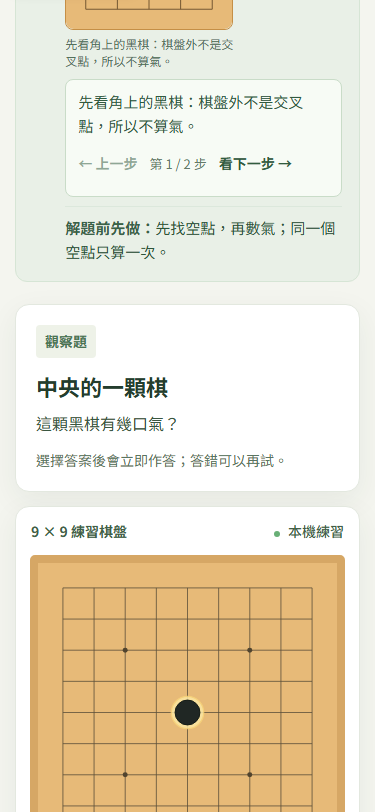
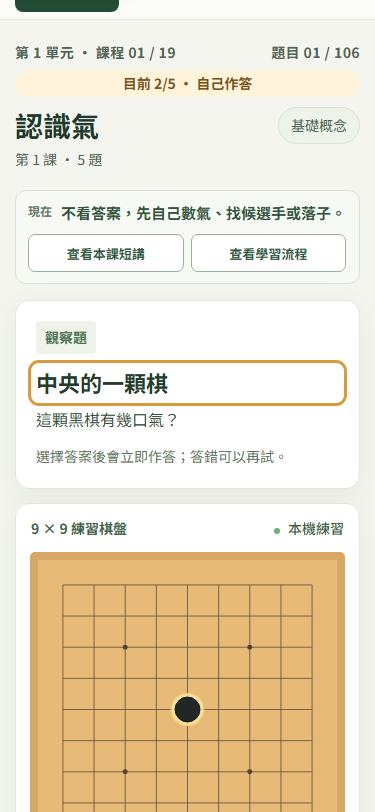
feat: condense repeated lesson guidance

diff --git a/styles.css b/styles.css
@@ -119,16 +119,16 @@ svg .board-hit{fill:transparent;cursor:pointer}svg .board-hit:hover{fill:#ffffff
   .top-actions{width:100%;justify-content:flex-start;gap:6px}.primary-top-action,.tools-menu summary,.text-button{min-height:40px;font-size:.8125rem}.tools-panel{right:auto;left:0;width:min(440px,calc(100vw - 30px));max-height:70vh;padding:15px}.tool-item{grid-template-columns:1fr;gap:5px;padding:9px 0}.tool-item button,.tool-upload{width:100%;min-height:40px}.policy-choice{padding:7px 0}
 }
 
-/* First-use flow: read the task before seeing or operating the board. */
+/* Keep repeated guidance available without occupying every question screen. */
 .skip-link{position:fixed;z-index:20;left:12px;top:-56px;padding:10px 14px;border-radius:8px;background:#fff;color:#183e29;font-weight:700;box-shadow:0 3px 14px #102b1c33}.skip-link:focus{top:12px}
-.first-start-card{display:grid;gap:9px;max-width:760px;margin:0 0 22px;padding:22px;border:1px solid #cfe0d0;border-radius:14px;background:#f2f7ef;box-shadow:0 8px 24px #233c2910}.first-start-card>span{font-size:.875rem;font-weight:700;color:#3c744b}.first-start-card h2{margin:0;color:#244c35;font-size:1.5rem}.first-start-card>p{max-width:56ch;margin:0;font-size:1rem;line-height:1.7;color:#395640}.first-start-preview{display:grid;gap:7px;max-width:62ch;padding:13px 15px;border:1px solid #c9ddcb;border-radius:10px;background:#fffdf8;color:#2c4d35}.first-start-preview>strong{font-size:.9375rem}.first-start-preview p{margin:0;font-size:.9375rem;line-height:1.62}.first-start-preview p span:first-child,.teaching-demo>span:first-child,.teaching-check>span:first-child{font-weight:700;color:#396247}.first-start-card .primary-button{justify-self:start;margin-top:4px}.course-hint{margin:0 0 10px;padding:0 5px;font-size:.8125rem;line-height:1.5;color:#d0e2d3}
+.course-hint{margin:0 0 10px;padding:0 5px;font-size:.8125rem;line-height:1.5;color:#d0e2d3}.lesson-context-bar{display:flex;align-items:center;justify-content:space-between;gap:18px;margin:0 0 20px;padding:12px 15px;border:1px solid #d6e2d4;border-radius:11px;background:#f7faf4}.lesson-context-bar p{display:flex;align-items:baseline;gap:9px;margin:0;color:#34553c;font-size:.9375rem;line-height:1.5}.lesson-context-bar p>span{font-size:.75rem;font-weight:700;color:#617967}.lesson-context-bar p>strong{font-weight:600}.lesson-context-actions{display:flex;flex:none;gap:7px}.lesson-context-actions .subtle-button{min-height:38px;padding:7px 10px;border:1px solid #9ab19c;border-radius:7px;background:#fff;color:#315a3f;font-size:.8125rem;font-weight:700}.lesson-context-actions .subtle-button:hover{background:#edf5eb;text-decoration:none}
 .practice-grid{grid-template-areas:"board question" "board answer";grid-template-columns:minmax(335px,1.2fr) minmax(330px,.9fr);align-items:start}.board-card{grid-area:board}.question-card{grid-area:question;min-height:0;margin:0;padding:25px 25px 18px}.answer-card{grid-area:answer;display:flex;min-height:252px;padding:21px 25px;background:#fff;border:1px solid #e3e8df;border-radius:14px;box-shadow:0 9px 30px #233c2910;flex-direction:column}.question-card h3{margin-top:14px}.answer-policy{margin:13px 0 0;color:#5a7460;font-size:.875rem;line-height:1.55}.practice-grid.text-practice{grid-template-areas:"question" "answer";grid-template-columns:minmax(0,760px)}.text-practice .answer-card{min-height:270px}.question-card,.answer-card{scroll-margin-top:18px}
-.text-button[hidden]{display:none}.text-button:disabled,.subtle-button:disabled{opacity:.52;cursor:not-allowed;text-decoration:none}.subtle-button:disabled:hover{text-decoration:none}.evaluation-dialog{width:min(480px,calc(100vw - 32px));padding:24px;border:1px solid #cadbc9;border-radius:14px;color:#294635;box-shadow:0 20px 48px #1935233d}.evaluation-dialog::backdrop{background:#19352366}.evaluation-dialog h2{margin:0 0 10px;font-size:1.35rem}.evaluation-dialog p,.evaluation-dialog li{font-size:1rem;line-height:1.65}.evaluation-dialog ul{padding-left:1.4em}.dialog-actions{display:flex;justify-content:flex-end;align-items:center;gap:14px;margin-top:20px}.noscript-note{margin:16px;padding:16px;border:1px solid #d39a74;border-radius:8px;background:#fff1e8;color:#743d25}
+.text-button[hidden]{display:none}.text-button:disabled,.subtle-button:disabled{opacity:.52;cursor:not-allowed;text-decoration:none}.subtle-button:disabled:hover{text-decoration:none}.evaluation-dialog{width:min(480px,calc(100vw - 32px));padding:24px;border:1px solid #cadbc9;border-radius:14px;color:#294635;box-shadow:0 20px 48px #1935233d}.evaluation-dialog::backdrop,.lesson-intro-dialog::backdrop,.learning-flow-dialog::backdrop{background:#19352380}.evaluation-dialog h2{margin:0 0 10px;font-size:1.35rem}.evaluation-dialog p,.evaluation-dialog li{font-size:1rem;line-height:1.65}.evaluation-dialog ul{padding-left:1.4em}.lesson-intro-dialog,.learning-flow-dialog{box-sizing:border-box;max-height:calc(100dvh - 32px);padding:0;overflow:auto;border:1px solid #bfd2c0;border-radius:16px;background:#fffdf8;color:#294635;box-shadow:0 24px 70px #10291b55}.lesson-intro-dialog{width:min(720px,calc(100vw - 32px))}.learning-flow-dialog{width:min(920px,calc(100vw - 32px))}.lesson-intro-shell{padding:25px}.dialog-topline{display:flex;align-items:center;justify-content:space-between;gap:16px;margin-bottom:5px}.dialog-kicker{display:block;color:#4b7756;font-size:.8125rem;font-weight:700}.dialog-close-button{min-height:36px;padding:6px 10px;border:1px solid #9ab19c;border-radius:7px;background:#fff;color:#315a3f;font:inherit;font-size:.8125rem;font-weight:700;cursor:pointer}.dialog-close-button:hover{background:#edf5eb}.lesson-intro-shell>h2{margin:0;color:#203e2b;font-size:1.65rem}.lesson-intro-shell>h2:focus{outline:3px solid #d99a3d;outline-offset:4px;border-radius:3px}.lesson-intro-first-use{max-width:62ch;margin:9px 0 16px;color:#4a6750;font-size:.9375rem;line-height:1.65}.lesson-intro-first-use[hidden]{display:none}.lesson-intro-dialog .teaching-card{margin:17px 0 0;box-shadow:none}.learning-flow-dialog .learning-flow{margin:0;padding:25px;border:0;background:#fffdf8;box-shadow:none}.dialog-actions{display:flex;justify-content:flex-end;align-items:center;gap:14px;margin-top:20px}.noscript-note{margin:16px;padding:16px;border:1px solid #d39a74;border-radius:8px;background:#fff1e8;color:#743d25}
 svg .board-point{fill:transparent}svg .board-hit:focus{fill:#ffffff55}svg .board-point:focus{stroke:#16452f;stroke-width:4;filter:drop-shadow(0 0 1px #fff);outline:none}svg .board-hit:focus-visible,svg .board-occupied:focus-visible{outline:none}svg .board-occupied{cursor:not-allowed}
 @media(max-width:1120px){.practice-grid{grid-template-areas:"question" "board" "answer";grid-template-columns:1fr}.question-card{padding:22px}.answer-card{min-height:0}.board-card{padding:14px}.board{max-width:500px}}
-@media(max-width:760px){.first-start-card{padding:18px;margin-bottom:18px}.first-start-card h2{font-size:1.3rem}.course-hint{margin-bottom:8px}.question-card{padding:20px}.answer-card{padding:19px 20px}.question-card h3{font-size:1.375rem}.answer-policy{font-size:.875rem}.dialog-actions{align-items:stretch;flex-wrap:wrap}.dialog-actions .primary-button{flex:1}.dialog-actions .subtle-button{padding:10px}.practice-grid{gap:14px}}
+@media(max-width:760px){.course-hint{margin-bottom:8px}.lesson-context-bar{display:grid;gap:10px;margin-bottom:16px;padding:11px 12px}.lesson-context-bar p{align-items:flex-start}.lesson-context-actions{display:grid;grid-template-columns:1fr 1fr}.lesson-context-actions .subtle-button{width:100%;text-align:center}.lesson-intro-shell,.learning-flow-dialog .learning-flow{padding:18px}.lesson-intro-shell>h2{font-size:1.4rem}.lesson-intro-dialog .teaching-card{padding:15px}.question-card{padding:20px}.answer-card{padding:19px 20px}.question-card h3{font-size:1.375rem}.answer-policy{font-size:.875rem}.dialog-actions{align-items:stretch;flex-wrap:wrap}.dialog-actions .primary-button{flex:1}.dialog-actions .subtle-button{padding:10px}.practice-grid{gap:14px}}
 
-.teaching-card{align-items:start}.teaching-card p{margin-bottom:0}.teaching-demo,.teaching-check{margin-top:9px!important;padding-top:9px;border-top:1px solid #dce8dc;font-size:.9375rem!important;line-height:1.6!important}
+.teaching-card{align-items:start}.teaching-card p{margin-bottom:0}.teaching-demo,.teaching-check{margin-top:9px!important;padding-top:9px;border-top:1px solid #dce8dc;font-size:.9375rem!important;line-height:1.6!important}.teaching-demo>span:first-child,.teaching-check>span:first-child{font-weight:700;color:#396247}
 .teaching-board-preview{width:168px;margin:12px 0 2px}.teaching-board-preview svg{display:block;width:168px;height:168px;border:1px solid #c58f46;border-radius:8px}.teaching-board-preview figcaption{margin-top:5px;font-size:.75rem;line-height:1.45;color:#54705c}.demo-board-background{fill:#e7ba78}.teaching-board-preview line{stroke:#725632;stroke-width:1}.demo-liberty{fill:none;stroke:#d39831;stroke-width:4}.teaching-board-preview .stone-black{fill:#202724;stroke:#0f1712;stroke-width:1.5}.teaching-board-preview .stone-white{fill:#fdfbf2;stroke:#5b6b59;stroke-width:1.5}
 .demo-emphasis{fill:none;stroke:#d39831;stroke-width:3}.demo-blocked{fill:none;stroke:#bd5341;stroke-width:4;stroke-linecap:round}.demo-stepper{margin:10px 0 0;padding:10px 12px;border:1px solid #c9dcc8;border-radius:8px;background:#f7fbf5;max-width:28rem}.demo-stepper p{margin:0!important;font-size:.9375rem!important;line-height:1.55!important;color:#315a3f!important}.demo-stepper-actions{display:flex;align-items:center;gap:12px;margin-top:5px}.demo-stepper-actions .subtle-button{font-weight:700}.demo-stepper-actions span{font-size:.8125rem;color:#647a68}
 .dialog-field{display:block;margin:16px 0 6px;font-size:.9375rem;font-weight:700;color:#315a3f}.evaluation-dialog select{width:100%;min-height:44px;border:1px solid #78927f;border-radius:8px;padding:8px 10px;background:#fffdf7;color:#24422f;font:inherit}

diff --git a/index.html b/index.html
@@ -98,57 +98,13 @@
       </header>
 
       <div class="content-wrap">
-        <section class="first-start-card" id="first-start-card" aria-labelledby="first-start-title">
-          <span>第一次使用</span>
-          <h2 id="first-start-title">先完成第一題</h2>
-          <p>先讀完這一小段，再用第一題確認是否看懂。答錯後會進入修正；後續再用新棋形與 9 路局面確認是否用得出來。紀錄只存於這台電腦。</p>
-          <div class="first-start-preview" aria-labelledby="first-start-lesson-title">
-            <strong id="first-start-lesson-title">現在先學：認識氣</strong>
-            <p id="first-start-concept"></p>
-            <p><span>示範：</span><span id="first-start-demo"></span></p>
-            <figure class="teaching-board-preview" id="first-start-demo-board"></figure>
-            <p><span>解題前先做：</span><span id="first-start-check"></span></p>
-          </div>
-          <button class="primary-button" id="first-start-button" type="button">看完示範，開始第 1 題 <span aria-hidden="true">→</span></button>
-        </section>
-        <section class="learning-flow" aria-labelledby="learning-flow-title">
-          <div class="learning-flow-head">
-            <div><span>學習流水線</span><h2 id="learning-flow-title">從看懂，到在棋局裡用得出來</h2></div>
-            <p>一次答對只算完成當下題目。</p>
-          </div>
-          <ol class="learning-steps">
-            <li id="learning-step-0"><span>1</span><strong>先看懂</strong><small>短講與示範</small></li>
-            <li id="learning-step-1"><span>2</span><strong>自己作答</strong><small>不看答案先算</small></li>
-            <li id="learning-step-2"><span>3</span><strong>修正重算</strong><small>理解理由再做</small></li>
-            <li id="learning-step-3"><span>4</span><strong>延後新題</strong><small>隔日換形再測</small></li>
-            <li id="learning-step-4"><span>5</span><strong>局面應用</strong><small>9 路自行發現</small></li>
-          </ol>
-          <div class="learning-guidance" role="status" aria-live="polite">
-            <p><strong>現在：</strong><span id="learning-now">先看短講，理解本題只需要的一個概念。</span></p>
-            <p><strong>為什麼現在做：</strong><span id="learning-why">完成短講後，先在有明確焦點的題目自行判斷。</span></p>
-            <p><strong>下一步：</strong><span id="learning-next">不看答案，自己回答第一題。</span></p>
-          </div>
-          <p class="learning-proof">逐步學會的證據順序：當下能做 → 隔一段時間換新棋形仍能做 → 在 9 路局面能自己發現。缺少哪一段，就標示待驗證。</p>
-        </section>
         <div class="section-head"><span id="lesson-kicker">LESSON 01 / 19</span><span class="current-stage-badge" id="learning-stage-badge">目前 1/5 · 先看懂</span><span id="question-number">題目 01 / 98</span></div>
         <div class="title-row"><div><h2 id="lesson-title" tabindex="-1">認識氣</h2><p id="lesson-subtitle"></p></div><span class="lesson-badge" id="lesson-badge">基礎概念</span></div>
-
-        <section class="teaching-card" aria-labelledby="teaching-title">
-          <span class="teaching-icon" aria-hidden="true">✦</span>
-          <div>
-            <strong id="teaching-title">先懂這一點</strong>
-            <p id="teaching-text"></p>
-            <p class="teaching-demo"><span>示範：</span><span id="teaching-demo"></span></p>
-            <figure class="teaching-board-preview" id="teaching-demo-board"></figure>
-            <section class="demo-stepper" id="teaching-demo-stepper" aria-label="逐步棋形示範" hidden>
-              <p id="teaching-demo-caption" role="status" aria-live="polite"></p>
-              <div class="demo-stepper-actions">
-                <button class="subtle-button" id="teaching-demo-previous" type="button">← 上一步</button>
-                <span id="teaching-demo-count" aria-live="polite"></span>
-                <button class="subtle-button" id="teaching-demo-next" type="button">看下一步 →</button>
-              </div>
-            </section>
-            <p class="teaching-check"><span>解題前先做：</span><span id="teaching-check"></span></p>
+        <section class="lesson-context-bar" aria-label="目前學習提示">
+          <p><span>現在</span><strong id="learning-now-summary">先看本課短講，再開始作答。</strong></p>
+          <div class="lesson-context-actions">
+            <button class="subtle-button" id="lesson-intro-button" type="button">查看本課短講</button>
+            <button class="subtle-button" id="learning-flow-button" type="button">查看學習流程</button>
           </div>
         </section>
 
@@ -210,6 +166,56 @@
       </div>
     </main>
   </div>
+  <dialog class="lesson-intro-dialog" id="lesson-intro-dialog" aria-labelledby="lesson-intro-title">
+    <div class="lesson-intro-shell">
+      <div class="dialog-topline"><span class="dialog-kicker" id="lesson-intro-kicker">本課短講 · 每課只自動顯示一次</span><button class="dialog-close-button" id="lesson-intro-dismiss-button" type="button">關閉</button></div>
+      <h2 id="lesson-intro-title" tabindex="-1">現在先學：認識氣</h2>
+      <p class="lesson-intro-first-use" id="lesson-intro-first-use">先看一個概念與示範，再自己完成題目；答錯後會進入修正，日後再用新棋形確認。紀錄只存於這台電腦。</p>
+      <section class="teaching-card" aria-labelledby="teaching-title">
+        <span class="teaching-icon" aria-hidden="true">✦</span>
+        <div>
+          <strong id="teaching-title">先懂這一點</strong>
+          <p id="teaching-text"></p>
+          <p class="teaching-demo"><span>示範：</span><span id="teaching-demo"></span></p>
+          <figure class="teaching-board-preview" id="teaching-demo-board"></figure>
+          <section class="demo-stepper" id="teaching-demo-stepper" aria-label="逐步棋形示範" hidden>
+            <p id="teaching-demo-caption" role="status" aria-live="polite"></p>
+            <div class="demo-stepper-actions">
+              <button class="subtle-button" id="teaching-demo-previous" type="button">← 上一步</button>
+              <span id="teaching-demo-count" aria-live="polite"></span>
+              <button class="subtle-button" id="teaching-demo-next" type="button">看下一步 →</button>
+            </div>
+          </section>
+          <p class="teaching-check"><span>解題前先做：</span><span id="teaching-check"></span></p>
+        </div>
+      </section>
+      <div class="dialog-actions">
+        <button class="primary-button" id="lesson-intro-start-button" type="button">看完，開始作答 <span aria-hidden="true">→</span></button>
+      </div>
+    </div>
+  </dialog>
+  <dialog class="learning-flow-dialog" id="learning-flow-dialog" aria-labelledby="learning-flow-title">
+    <section class="learning-flow">
+      <div class="learning-flow-head">
+        <div><span>學習流程</span><h2 id="learning-flow-title">從看懂，到在棋局裡用得出來</h2></div>
+        <p>一次答對只算完成當下題目。</p>
+      </div>
+      <ol class="learning-steps">
+        <li id="learning-step-0"><span>1</span><strong>先看懂</strong><small>短講與示範</small></li>
+        <li id="learning-step-1"><span>2</span><strong>自己作答</strong><small>不看答案先算</small></li>
+        <li id="learning-step-2"><span>3</span><strong>修正重算</strong><small>理解理由再做</small></li>
+        <li id="learning-step-3"><span>4</span><strong>延後新題</strong><small>隔日換形再測</small></li>
+        <li id="learning-step-4"><span>5</span><strong>局面應用</strong><small>9 路自行發現</small></li>
+      </ol>
+      <div class="learning-guidance" role="status" aria-live="polite">
+        <p><strong>現在：</strong><span id="learning-now">先看短講，理解本題只需要的一個概念。</span></p>
+        <p><strong>為什麼現在做：</strong><span id="learning-why">完成短講後，先在有明確焦點的題目自行判斷。</span></p>
+        <p><strong>下一步：</strong><span id="learning-next">不看答案，自己回答第一題。</span></p>
+      </div>
+      <p class="learning-proof">逐步學會的證據順序：當下能做 → 隔一段時間換新棋形仍能做 → 在 9 路局面能自己發現。缺少哪一段，就標示待驗證。</p>
+      <div class="dialog-actions"><button class="primary-button" id="learning-flow-close-button" type="button">回到題目</button></div>
+    </section>
+  </dialog>
   <dialog class="evaluation-dialog" id="evaluation-dialog" aria-labelledby="evaluation-dialog-title">
     <h2 id="evaluation-dialog-title">開始七天流程試行？</h2>
     <p>這一批有 4 題，請預留幾分鐘完整作答。</p>

diff --git a/app.js b/app.js
@@ -12,7 +12,7 @@
   const storageRecoveryKey = "go-learning-prototype-recovery-v1";
   const legacyStorageKeys = ["go-learning-prototype-v6", "go-learning-prototype-v5", "go-learning-prototype-v4", "go-learning-prototype-v3", "go-learning-prototype-v2", "go-learning-prototype-v1"];
   const eventPolicyVersion = "trial-events-v4";
-  const uiVersion = "learner-flow-v27";
+  const uiVersion = "learner-flow-v28";
   const contentCatalogVersion = 3;
   let pendingSgf = null;
   let storageReadIssue = null;
@@ -27,6 +27,7 @@
       : lessons[Number.isInteger(saved.index) && problems[saved.index] ? problems[saved.index].lesson : 0].unit,
     hasStarted: savedHasStarted,
     lessonIntroPending: typeof saved.lessonIntroPending === "boolean" ? saved.lessonIntroPending : !savedHasStarted,
+    seenLessonIntros: new Set((Array.isArray(saved.seenLessonIntros) ? saved.seenLessonIntros : []).filter((lessonIndex) => Number.isInteger(lessonIndex) && lessons[lessonIndex])),
     reviewMode: false,
     reviewQueue: [],
     solved: false,
@@ -86,7 +87,7 @@
   function savedShapeIsSafe(value) {
     if (value === null) return true;
     if (!asRecord(value)) return false;
-    for (const key of ["completed", "missed", "events", "applicationResults", "applicationEvents", "localExercises"]) {
+    for (const key of ["completed", "missed", "events", "applicationResults", "applicationEvents", "localExercises", "seenLessonIntros"]) {
       if (value[key] !== undefined && !Array.isArray(value[key])) return false;
     }
     for (const key of ["attempts", "exposures"]) {
@@ -152,6 +153,7 @@
         navUnitIndex: state.navUnitIndex,
         hasStarted: state.hasStarted,
         lessonIntroPending: state.lessonIntroPending,
+        seenLessonIntros: [...state.seenLessonIntros],
         completed: [...state.completed],
         missed: [...state.missed],
         attempts: state.attempts,
@@ -370,7 +372,7 @@
     state.scheduledProblem = null;
     state.externalMode = null;
     state.index = index;
-    state.lessonIntroPending = Boolean(showLessonIntro);
+    state.lessonIntroPending = Boolean(showLessonIntro && !state.seenLessonIntros.has(problems[index].lesson));
     if (updateNavUnit) state.navUnitIndex = lessons[problems[index].lesson].unit;
     state.solved = false;
     state.wrongThisTurn = 0;
@@ -421,8 +423,39 @@
     if (title && typeof title.focus === "function") title.focus({ preventScroll: true });
   }
 
-  function revealLessonStart() { revealElement("lesson-title"); }
+  function revealLessonStart() { revealElement($("lesson-intro-dialog").open ? "lesson-intro-title" : "lesson-title"); }
   function revealQuestionStart() { revealElement("question-title"); }
+
+  function markCurrentLessonIntroSeen() {
+    const lessonIndex = current().lesson;
+    if (Number.isInteger(lessonIndex)) state.seenLessonIntros.add(lessonIndex);
+    state.lessonIntroPending = false;
+  }
+
+  function showLessonIntroDialog() {
+    const dialog = $("lesson-intro-dialog");
+    if (!dialog || dialog.open) return;
+    if (typeof dialog.showModal === "function") dialog.showModal();
+    else dialog.setAttribute("open", "");
+    revealElement("lesson-intro-title");
+  }
+
+  function syncLessonIntroDialog() {
+    if (state.lessonIntroPending && !state.externalMode && !state.reviewMode) showLessonIntroDialog();
+  }
+
+  function dismissLessonIntro() {
+    if (!state.externalMode) {
+      state.hasStarted = true;
+      markCurrentLessonIntroSeen();
+      save();
+      renderLearningFlow();
+      renderProgress();
+    }
+    const dialog = $("lesson-intro-dialog");
+    if (dialog && dialog.open) dialog.close();
+    revealQuestionStart();
+  }
 
   function closeTools() {
     const tools = $("tools-menu");
@@ -723,6 +756,7 @@
       step.setAttribute("aria-current", index === activeStep ? "step" : "false");
     }
     $("learning-now").textContent = now;
+    $("learning-now-summary").textContent = now;
     $("learning-why").textContent = why;
     $("learning-next").textContent = next;
     $("learning-stage-badge").textContent = `目前 ${activeStep + 1}/5 · ${["先看懂", "自己作答", "修正重算", "延後新題", "局面應用"][activeStep]}`;
@@ -821,9 +855,6 @@
 
   function renderDemoBoards(lesson) {
     const markup = demoBoardMarkup(lesson.demoBoard);
-    const firstStart = $("first-start-demo-board");
-    firstStart.hidden = !markup;
-    firstStart.innerHTML = markup;
     if (demoLessonTitle !== lesson.title) {
       demoLessonTitle = lesson.title;
       demoStepIndex = 0;
@@ -909,12 +940,13 @@
     $("lesson-subtitle").textContent = lesson.subtitle;
     $("lesson-badge").textContent = lesson.badge || "概念練習";
     $("teaching-text").textContent = lesson.text;
-    $("teaching-demo").textContent = lesson.demo || "先依題目找出本課要觀察的棋形，再作答。";
+    $("teaching-demo").textContent = (lesson.demo || "先依題目找出本課要觀察的棋形，再作答。").replace(/^示範：\s*/, "");
     $("teaching-check").textContent = lesson.takeaway;
-    $("first-start-lesson-title").textContent = `現在先學：${lesson.title}`;
-    $("first-start-concept").textContent = lesson.text;
-    $("first-start-demo").textContent = lesson.demo || "先依題目找出本課要觀察的棋形，再作答。";
-    $("first-start-check").textContent = lesson.takeaway;
+    $("lesson-intro-title").textContent = `現在先學：${lesson.title}`;
+    $("lesson-intro-kicker").textContent = state.hasStarted ? "本課短講 · 每課只自動顯示一次" : "第一次使用 · 看完即可開始";
+    $("lesson-intro-first-use").hidden = state.hasStarted;
+    $("lesson-intro-start-button").innerHTML = `${state.hasStarted ? "開始本課練習" : "看完，開始第 1 題"} <span aria-hidden="true">→</span>`;
+    $("lesson-intro-button").textContent = state.externalMode ? "查看本題說明" : "查看本課短講";
     renderDemoBoards(lesson);
     const skill = currentSkill();
     $("question-tag").textContent = state.externalMode === "application" ? "固定應用探測" : state.externalMode === "evaluation" ? "無提示個人試行" : state.externalMode === "local_sgf" ? "棋譜局部複習" : skill ? `練習技能 · ${skill.name}` : (problem.type === "move" ? "落子題" : "觀察題");
@@ -946,8 +978,8 @@
     renderSgfReview();
     renderLearningFlow();
     renderProgress();
-    $("first-start-card").hidden = state.hasStarted || Boolean(state.externalMode) || state.index !== 0;
     showStorageWarning();
+    syncLessonIntroDialog();
   }
 
   function renderProgress() {
@@ -990,7 +1022,7 @@
     const problem = current();
     if (!state.externalMode) {
       state.hasStarted = true;
-      state.lessonIntroPending = false;
+      markCurrentLessonIntroSeen();
     }
     const isFirstAnswer = state.answersThisTurn === 0;
     state.answersThisTurn += 1;
@@ -1268,7 +1300,7 @@
     $("feedback").className = "feedback";
     $("feedback").textContent = current().hint;
     state.hintShown = true;
-    state.lessonIntroPending = false;
+    markCurrentLessonIntroSeen();
     recordEvent("hint", {
       firstAnswerPending: state.answersThisTurn === 0,
       firstExposure: state.activePresentation ? state.activePresentation.firstExposure : false,
@@ -1289,18 +1321,24 @@
     closeTools();
     if (state.externalMode) startProblem(state.index, "return_to_course");
     state.hasStarted = true;
-    state.lessonIntroPending = false;
+    markCurrentLessonIntroSeen();
     save();
     render();
     revealQuestionStart();
   });
-  $("first-start-button").addEventListener("click", () => {
-    state.hasStarted = true;
-    state.lessonIntroPending = false;
-    save();
-    render();
-    revealQuestionStart();
+  $("lesson-intro-button").addEventListener("click", showLessonIntroDialog);
+  $("lesson-intro-dismiss-button").addEventListener("click", dismissLessonIntro);
+  $("lesson-intro-start-button").addEventListener("click", dismissLessonIntro);
+  $("lesson-intro-dialog").addEventListener("cancel", (event) => {
+    event.preventDefault();
+    dismissLessonIntro();
   });
+  $("learning-flow-button").addEventListener("click", () => {
+    const dialog = $("learning-flow-dialog");
+    if (dialog && typeof dialog.showModal === "function") dialog.showModal();
+    else if (dialog) dialog.setAttribute("open", "");
+  });
+  $("learning-flow-close-button").addEventListener("click", () => $("learning-flow-dialog").close());
   $("unit-select").addEventListener("change", (event) => selectUnit(Number(event.target.value)));
   $("previous-unit-button").addEventListener("click", () => selectUnit(Math.max(0, state.navUnitIndex - 1)));
   $("next-unit-button").addEventListener("click", () => selectUnit(Math.min(units.length - 1, state.navUnitIndex + 1)));

diff --git a/README.md b/README.md
@@ -6,7 +6,7 @@
 
 目前是可運作的個人離線學習原型，尚不是可判定學習成效的正式驗收系統。2026-09-21 已將七天批次升為 `personal-pilot-v3`：八題皆來自使用者舊 R1 自我審查中已看過的 22 題，只檢查操作、七天返回、資料完整性與負擔，`formalEligible=false`。一般原始匯出仍遮蔽公開保留組的答案，但完整題庫與答案已隨 GitHub 原始碼公開；48 題均標記為 `public_source`、`formalHoldoutEligible=false`，整個舊 formal holdout pool 已退役。正式評量若要重啟，必須建立從未公開的新題庫與角色分離流程。現況以[完成矩陣](COMPLETION_MATRIX.md)為準；正式教學停止線見[正式教學閘門](TEACHING_GATE.md)，發布邊界見[公開發布架構](PUBLICATION_ARCHITECTURE.md)。
 
-同日完成導覽、工具說明、首次使用、棋盤鍵盤操作與學習者流水線：側欄區分初級 1–5、中級 6–10、高級 11–15；題目前固定顯示「先看懂 → 自己作答 → 修正重算 → 延後新題 → 局面應用」，並依新題、錯答、完成、間隔練習及局面小測驗更新現在、為什麼現在做與下一步。完成一課或一個單元後，下一步按鈕會明示「進入下一課短講」或「進入第 N 單元短講」，並自動把焦點與畫面帶到新課標題、短講及棋盤示範；同一課內才直接前往下一題。短講待看狀態會保存在本機，重新載入仍維持正確位置。第一次使用與每課短講都顯示概念、示範及解題前檢查點；19 課現都有至少兩步、可用「上一步／看下一步」播放的棋盤示範，第 4 單元的直三示範含三步做活／破眼短讀。第 9–19 課以 5×5 縮圖表達局部比較或階段順序，文字明示它們不是唯一全局答案。10 個後續單元另以 9×9 棋盤提供局部觀察點選題，題幹與解說都明示只判定指定局部，避免把教學要點誤當成全局唯一最佳手。匯入單一主線的 9 路 SGF 後可選任意可落子的原局著手重建局部，並保存候選手、預期應手、理由及人工確認紀錄；兩種匯出都帶有重建該手所需的原局面與來源指紋，局部復盤也可另匯出 SGF 交給 KaTrain。課程改為先選單元、再明確點選課程；棋盤每次只有一個 Tab 停駐點，可用方向鍵移動並以 Enter／Space 落子。側欄另顯示可觀察錯誤、SCD 階段、再犯間隔及資料不足原因；同一診斷寫入兩種匯出。有題目真正到期時，首頁才顯示「今日到期」直接入口。R1a 審查頁已從學習者工具選單移除，只供不同於學習者的外部審查者使用。此介面版號為 `learner-flow-v27`。設計判斷與未解事項見 [前端操作與視覺稽核](UI_UX_AUDIT.md)。
+同日完成導覽、工具說明、首次使用、棋盤鍵盤操作與學習者流水線：側欄區分初級 1–5、中級 6–10、高級 11–15。為避免每題重複佔用版面，主畫面只保留目前行動與兩個入口；完整「先看懂 → 自己作答 → 修正重算 → 延後新題 → 局面應用」流程改由視窗按需查看，每課短講與棋盤示範只在第一次進入該課時自動顯示，關閉後仍可隨時重開。看過狀態與待看狀態都保存在本機，重新載入不會重複打擾或遺失未看短講。完成一課或一個單元後，下一步按鈕仍會明示「進入下一課短講」或「進入第 N 單元短講」；同一課內直接前往下一題。19 課現都有至少兩步、可用「上一步／看下一步」播放的棋盤示範，第 4 單元的直三示範含三步做活／破眼短讀。第 9–19 課以 5×5 縮圖表達局部比較或階段順序，文字明示它們不是唯一全局答案。10 個後續單元另以 9×9 棋盤提供局部觀察點選題，題幹與解說都明示只判定指定局部，避免把教學要點誤當成全局唯一最佳手。匯入單一主線的 9 路 SGF 後可選任意可落子的原局著手重建局部，並保存候選手、預期應手、理由及人工確認紀錄；兩種匯出都帶有重建該手所需的原局面與來源指紋，局部復盤也可另匯出 SGF 交給 KaTrain。課程改為先選單元、再明確點選課程；棋盤每次只有一個 Tab 停駐點，可用方向鍵移動並以 Enter／Space 落子。側欄另顯示可觀察錯誤、SCD 階段、再犯間隔及資料不足原因；同一診斷寫入兩種匯出。有題目真正到期時，首頁才顯示「今日到期」直接入口。R1a 審查頁已從學習者工具選單移除，只供不同於學習者的外部審查者使用。此介面版號為 `learner-flow-v28`。設計判斷與未解事項見 [前端操作與視覺稽核](UI_UX_AUDIT.md)。
 
 這是單人、離線使用的圍棋學習程式，現有初級、中級、高級各五個單元，共 15 單元、19 課、106 題，另有 148 題／43 個母題家族的 Phase 2 變形庫。直接以瀏覽器開啟 `index.html`，不需伺服器。課程包含 28 題棋盤落子、10 題局部棋形點選與 68 題文字選擇；後續單元的點選題只判定題幹指定的局部觀察點，不宣稱為全局最佳手。固定應用探測、9 路 SGF 任意手數局部重建、排程及匯出均可操作；進度以第 7 版 schema 儲存在瀏覽器 `localStorage`。新增的 48 題涵蓋直三做活／破眼及第二眼缺口的補／破，並含非 holdout T2 流程題；錯誤分類只描述可觀察的技能任務結果，不推定心理根因。目前的「七天流程試行」使用已知曝光題，不能當成正式未見、保留、遷移或學習成效證據。
 

diff --git a/UI_UX_AUDIT.md b/UI_UX_AUDIT.md
@@ -4,7 +4,7 @@
 範圍：`index.html`、`styles.css`、`app.js` 的學習頁，以及 `r1-review.html` 的獨立審題頁。  
 定位：此文件是個人離線版的設計稽核與下一輪修改規格；它不是使用者研究或無障礙合規宣告。
 
-> 當前補遺：跨課銜接修正後，介面版本為 `learner-flow-v27`、儲存 schema 為 7、內容目錄版本為 3。完成同課題目時直接前往下一題；跨課或跨單元時，按鈕明示將進入短講，並自動聚焦新課標題、短講及棋盤示範，流水線回到「先看懂」。短講待看狀態會跨重新載入保存。19 課現在都有至少兩步棋盤示範；第 9–19 課的 5×5 縮圖明示為局部比較或階段示意，不冒充唯一全局答案。10 個後續單元另有 9×9 的局部觀察點選；它只判定題幹指定要點，不能用來判定全局最佳手。首頁只在有題目真正到期時顯示「今日到期」與數量；R1a 已從學習者工具選單移除，審查頁明示只供不同於學習者的外部審查者使用。七天批次為 `personal-pilot-v3`，八題全來自舊 R1 自我審查中已曝光的 22 題，只檢查操作、返回、資料與負擔。審查母體仍為 77 題；R1b 難度可比性維持未知。下段 `learner-flow-v20`／`v23`／`v24`／`v25`／`v26` 為歷史快照，與本補遺衝突時以本補遺及 `COMPLETION_MATRIX.md` 為準。
+> 當前補遺：介面版本為 `learner-flow-v28`、儲存 schema 為 7、內容目錄版本為 3。重複出現的首次使用卡、完整五階段流水線與每題短講已改成漸進揭露：主畫面只保留目前行動及「查看本課短講／查看學習流程」入口；每課短講只在第一次進入時自動開啟，看過的課直接進題，仍可手動重開。`seenLessonIntros` 與待看狀態會跨重新載入保存。完成同課題目時直接前往下一題；跨課或跨單元時，按鈕明示將進入短講，未看過的新課會自動聚焦短講視窗。19 課現在都有至少兩步棋盤示範；第 9–19 課的 5×5 縮圖明示為局部比較或階段示意，不冒充唯一全局答案。10 個後續單元另有 9×9 的局部觀察點選；它只判定題幹指定要點，不能用來判定全局最佳手。首頁只在有題目真正到期時顯示「今日到期」與數量；R1a 已從學習者工具選單移除。七天批次為 `personal-pilot-v3`，只檢查操作、返回、資料與負擔。審查母體仍為 77 題；R1b 難度可比性維持未知。下段 `learner-flow-v20` 至 `v27` 為歷史快照，與本補遺衝突時以本補遺及 `COMPLETION_MATRIX.md` 為準。
 
 2026-09-20 實作更新：P0 課程導覽、功能說明與首次使用流程，以及 P1 棋盤鍵盤操作與學習者流水線已完成。介面版本為 `learner-flow-v20`；原始匯出與閱讀版紀錄都帶有目前版號，新寫入的核心事件、固定應用結果與試行呈現／答案也帶有版號。既有資料沒有版號時標為改版前未知，跨版本的操作負擔不可合併判讀；題目、答案、評分和事件政策均未變更。2026-09-20 補充：流水線在新課、錯題、延後複習、固定局面與棋譜局部題都顯示「為什麼現在做」，避免把排程當成任意跳題；候選自適應明確標為試行，固定間隔為日常建議。後續檢核修正：重做原錯題只屬修正重算，無到期題的今日練習只屬獨立作答；兩者不能冒充延後新棋形證據。首次進頁與每課短講補上概念、示範、解題前檢查點；從氣、吃子、連接、斷點、禁著到兩眼的八個先備課，另可用「上一步／看下一步」逐步查看棋形變化與解說。其餘十一課目前仍只有文字概念示範，不能宣稱所有課都具相同視覺教學品質。側欄診斷卡與兩種匯出顯示可觀察任務錯誤、SCD 階段、再犯間隔及資料不足原因；它們不推定心理根因，也不把尚缺非 holdout T2 正式題的狀態誤寫為學習完成。匯入單一主線 9 路 SGF 後可在建立題目前選擇任意可落子的原局著手，保存候選手、預期應手、理由與不確定點；完成後才選填人工確認紀錄，預設不判定答案；閱讀版與原始匯出均含原局面座標與來源指紋，並可另匯出標準 SGF 交給 KaTrain 開啟。匯出功能只保留局面與復盤資料，不預先提供分析結論。產品工程順序見[開發與驗證流水線](EXECUTION_PIPELINE.md)，學習者路徑見[設計計畫第 3.1 節](DESIGN_PLAN.md#31-學習者從不會到會的介面流水線)。
 

diff --git a/COMPLETION_MATRIX.md b/COMPLETION_MATRIX.md
@@ -9,7 +9,7 @@
 - `claim_mode`: `personal_descriptive`
 - `trial_protocol`: `personal-pilot-v3`
 - `r1_protocol`: `go-r1-independent-content-review-v4`
-- `ui_version`: `learner-flow-v27`
+- `ui_version`: `learner-flow-v28`
 - `storage_schema`: 7
 - `content_catalog_version`: 3
 - `formal_evaluation_available`: false
@@ -28,7 +28,7 @@
 | 承諾 | 現況與實作 | 已有驗證 | 證據等級 | 狀態 |
 |---|---|---|---|---|
 | 離線個人課程 | 15 單元、19 課、106 題；直接開啟 `index.html` | 課程與 Chrome 流程測試 | 工程 | 條件通過 |
-| 全課程短講與示範 | 19 課都有文字短講及至少兩步棋盤示範；中高級縮圖明示為局部比較或階段示意 | `lesson-content.test.cjs`、UI 測試 | 工程 | 條件通過；棋理適切性與是否幫助理解仍待外部審查及真人觀察 |
+| 全課程短講與示範 | 19 課都有文字短講及至少兩步棋盤示範；每課只在首次進入時自動開啟，之後可手動重看；中高級縮圖明示為局部比較或階段示意 | `lesson-content.test.cjs`、狀態與 UI 測試 | 工程 | 條件通過；棋理適切性與是否幫助理解仍待外部審查及真人觀察 |
 | 多題互動練習 | 28 題為棋盤數氣／連接／落子、10 題為局部棋形點選、68 題為文字選擇 | 規則與內容結構測試 | 工程 | 條件通過；局部點選只檢查題幹指定的觀察點，後續全局判斷深度仍待外部審查與真人觀察 |
 | 基礎吃子／死活變形庫 | 原有 100 題吃子、連接與救棋，加上 48 題兩類基礎死活，共 148 題、43 個母題家族 | `phase2-content.test.cjs`、一至三手規則與真眼區域驗證 | 工程 | 條件通過；兩類死活內容仍待獨立審題，不代表完整死活課綱 |
 | 失敗後的同類修正 | 已依技能首答結果產生可觀察的任務錯誤類型；不推定粗心、誤解等心理根因 | `learning-metrics.test.cjs`、`app-state.test.cjs`、`scheduler.test.cjs` | 工程 | 條件通過；分類效度仍待內容與真人資料檢驗 |
@@ -38,7 +38,7 @@
 | SGF 實戰回流 | 可選單一主線 9 路棋譜的任意可落子著手、保存原判斷並匯出 KaTrain 交接 SGF | `sgf.test.cjs`、狀態與 UI 測試 | 工程 | 條件通過；pass 不建立落子題，且未確認錯誤原因或最佳手 |
 | KaTrain／KataGo 分析 | KaTrain 1.20.0 可啟動；封裝內含 KataGo 1.18.1、38 MB 模型與 OpenCL GPU；網頁可匯出交接 SGF | 同版本設定已補齊 KaTrain `analysis` 必填欄位；9 路固定局面經 GTP 回應 `E5`，並由 `analysis` 回傳 JSON；原版桌面程式已建立 `katago.exe analysis` 子程序 | 外部工具 | 工具層通過；輸出是搜尋估計，仍需使用者對實戰局面確認教學結論 |
 | 首頁下一步清楚 | 可繼續課程、錯題與工具入口；只有確實有題目到期時顯示「今日到期」及數量 | `app-state.test.cjs`、UI 測試 | 工程 | 條件通過；是否容易理解仍待真人觀察 |
-| 跨課短講銜接 | 同課前往下一題；跨課或跨單元時按鈕明示短講，並自動聚焦新課短講與示範 | UI 測試 | 工程 | 條件通過；真人是否感覺自然仍待最後觀察 |
+| 跨課短講銜接 | 同課前往下一題；跨課或跨單元時按鈕明示短講；未看過的課自動開啟短講視窗，已看過的課直接進題並保留重看入口 | 狀態與 UI 測試 | 工程 | 條件通過；真人是否感覺自然仍待最後觀察 |
 | R1a 內容審題操作 | reviewer-only 77 題母體覆蓋完整 148 題題庫的 43 家族代表與全部 48 題公開保留組；學習頁不再提供入口，審查頁只載入去答案資料，三項獨立聲明分開 | `r1-content-audit.test.cjs`、UI 測試 | 工程 | v4 答案盲審流程條件通過；外部回條仍待不同於學習者的審查者完成，且結果不恢復 formal holdout 資格 |
 | R1a 棋理與構念核對 | 核心 70 題有獨立規則窮舉，完整題庫有目標型規則驗證及 77 題審查母體 | 結構驗證 | 單一外部內容審查 | 待外部審查；通過也只代表單一審查證據 |
 | R1b 平行題可比性 | 基線與追蹤在已知結構特徵上配對 | 結構比對 | 真人難度資料 | 未建立；不得由 R1a 自動升格 |

diff --git a/REVIEW_VERIFICATION.md b/REVIEW_VERIFICATION.md
@@ -8,6 +8,7 @@
 - R1 內容指紋維持 `fnv1a32-1afc0a13`；審查契約升為 v4，瀏覽器只載入去答案資料，舊 v3 回條不會被誤收。
 - 新增 `release-manifest.json` 與發布契約測試；GitHub Pages 採 `main`／repository root 靜態發布，`.nojekyll` 關閉 Jekyll，無自訂建置步驟。
 - 加入 R1 v4 去答案資料、正式教學 gate 與匿名真人證據範本後，manifest 共 65 個公開檔案；本機已通過 87 項 Node 測試。
+- `learner-flow-v28` 將重複的首次使用卡、五階段流程與每題短講收斂成按需視窗；每課短講只自動顯示一次，`seenLessonIntros` 會保存，仍可手動重開。Edge 已驗證桌面、320px、200% 文字與跨課重載流程。
 
 驗證日期：2026-09-21
 
